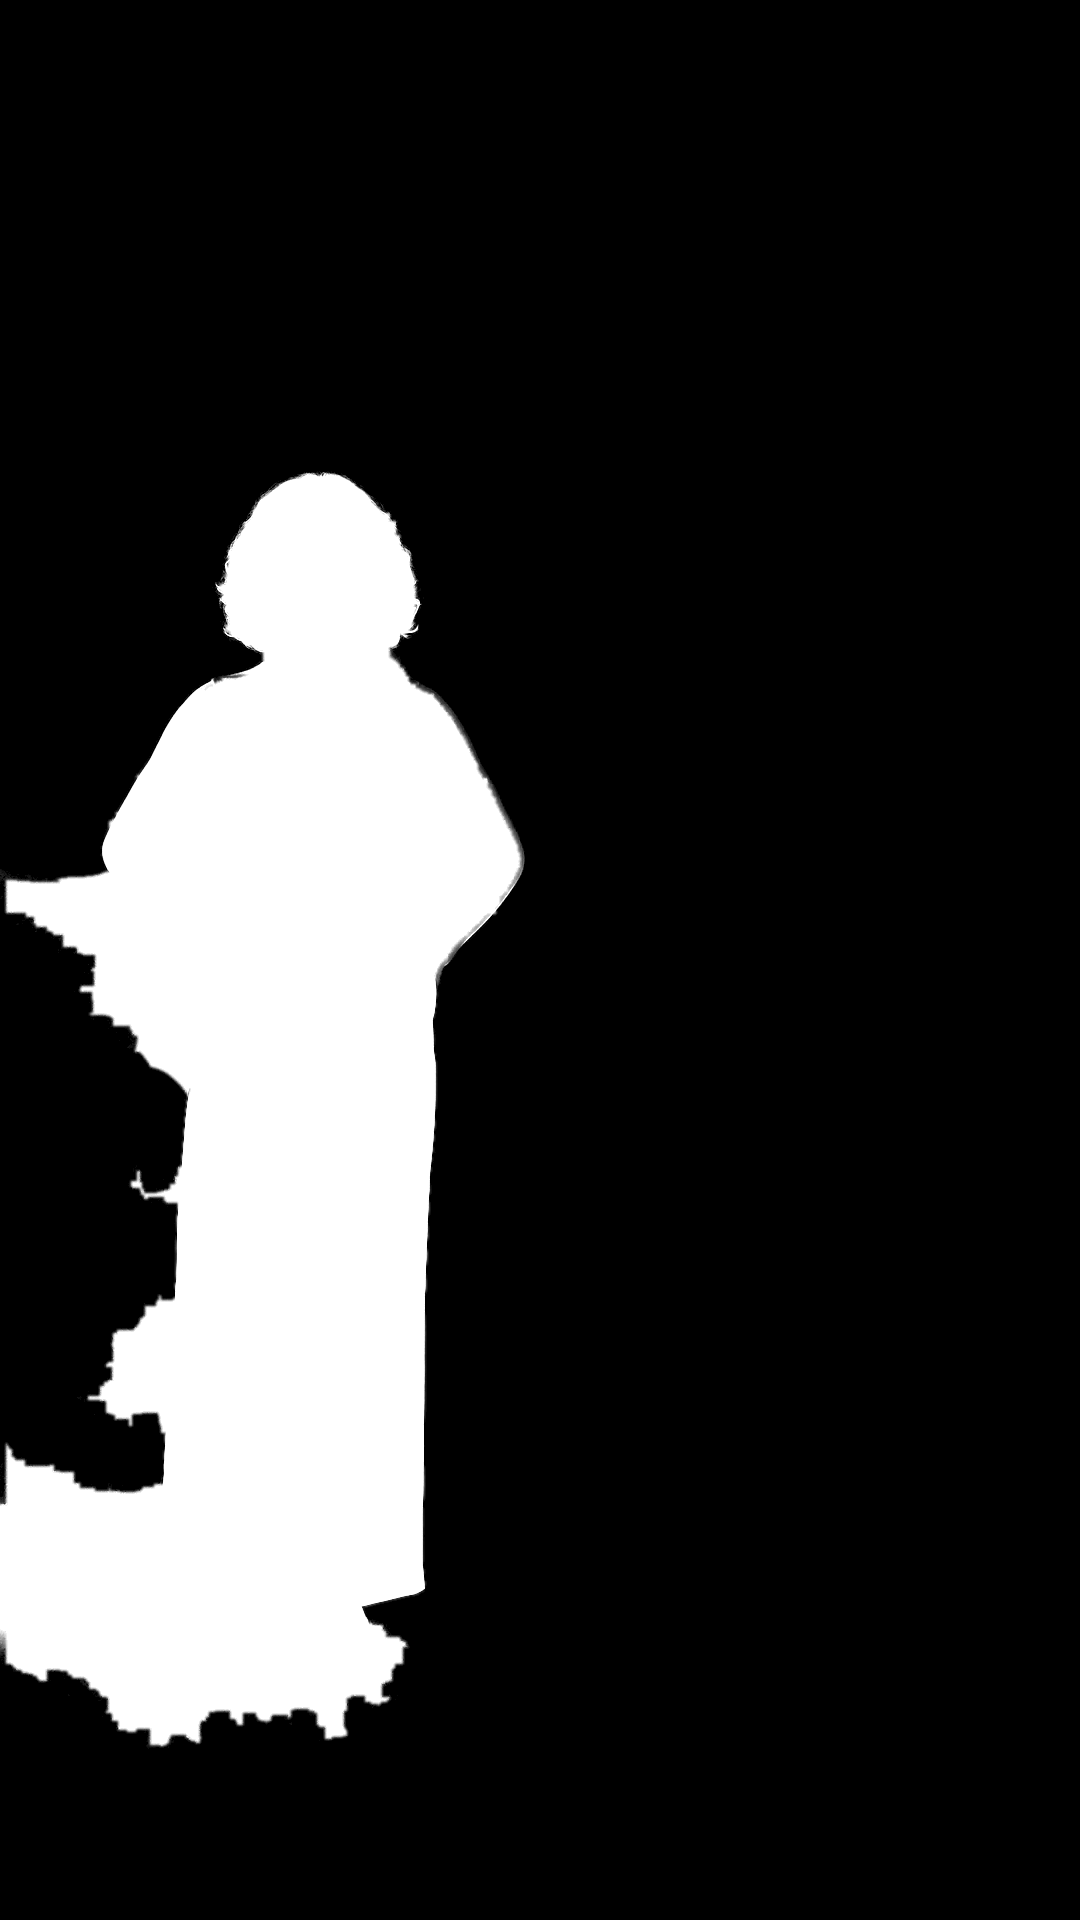
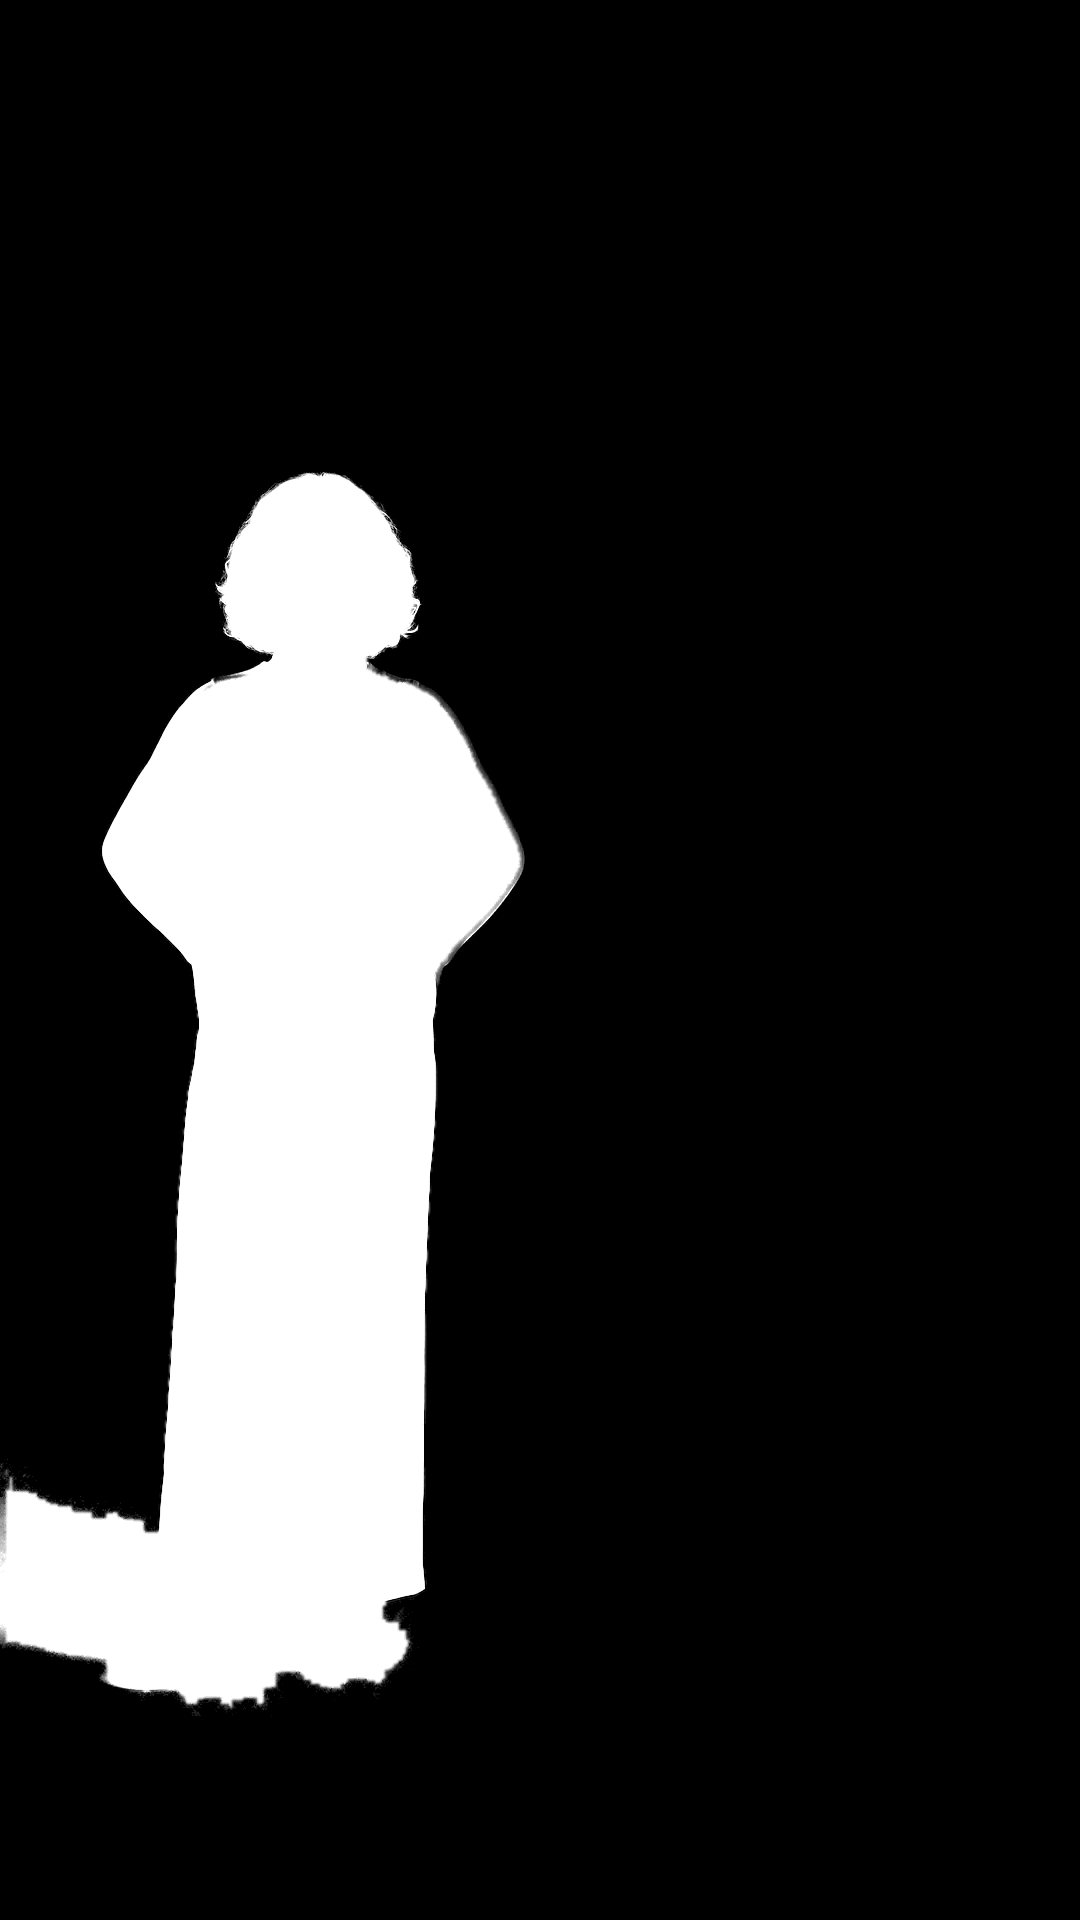
Make the train finite; keep wall shadow and pale fabric apart in the matte
The strip ran unbounded, so a garment sat behind the model at frame 1 and the
sequence repeated. It is now eight garments, one per cut, played once: nothing
behind her at the start, and the train empties from the right as it runs out.
The reference does the same - roughly ten pieces, with its last shot nearly bare
backdrop.

On the matte, three faults in sequence.

A wall shadow was being taken for subject: in shot 5, pixels reading channel
ratios of 0.95-1.07 with a spread of 0.01-0.04 are backdrop under a soft
lighting modulation, and the strip must pass in front of them. A ratio test
rejects them, with margins checked against every real garment (black reads
ratio 0.19, beige spread 0.19, the cream turtleneck mean 1.11).

That test then punched a hole through shot 6's cream trousers and hands, because
deep inside the figure the backdrop estimate has no backdrop left to average.
It collapses, and its ratios become meaningless - measured spread 14.0 and gain
221 where sane values are below 0.1. Gating the test on support density fixed
shot 6 but restored shot 5's shadow, since a shadow is itself classed subject
and the margin strips away its own surroundings.

The fix belonged in the estimate, not the test. It now blends a tight 20px
radius, accurate at the silhouette, towards a wide 220px one as support falls
away, so it is defined everywhere. Both shots pass together: shot 5 rejects the
shadow, shot 6 keeps its trousers, and the others are unchanged.
[…]

diff --git a/reel/matte.py b/reel/matte.py
@@ -22,6 +22,10 @@ from scipy import ndimage
 MAX_HOLE_FRAC = 0.0008          # holes larger than this fraction stay open
 SUBJECT_MARGIN = 25          # clearance kept around the subject when
                              # estimating the backdrop; see model_matte
+BACKDROP_SPREAD = 0.06       # channel-ratio spread below which a pixel is
+BACKDROP_GAIN = 0.08         # backdrop lit differently, not an object
+COARSE_SIGMA = 220.0         # wide fallback radius for the backdrop estimate
+SUPPORT_FULL = 0.25          # support at which the tight estimate is trusted alone
 BG_SIGMA = 20.0                 # radius of the backdrop estimate; 80 bled the
                                 # cyc curve into the matte and reported the
                                 # whole floor as subject
@@ -48,16 +52,36 @@ def guided_filter(guide, p, r=8, eps=1e-4):
     return ndimage.uniform_filter(a, r) * guide + ndimage.uniform_filter(b, r)
 
 
-def smooth_background(img, bgmask, sigma=None):
+def smooth_background(img, bgmask, sigma=None, with_support=False):
     """Gaussian-weighted average over the pixels currently classed as backdrop."""
     if sigma is None:
         sigma = BG_SIGMA          # read at call time so callers can tune it
     m = bgmask.astype(np.float64)
-    den = np.maximum(ndimage.gaussian_filter(m, sigma), 1e-6)
+    support = ndimage.gaussian_filter(m, sigma)
+    den = np.maximum(support, 1e-6)
     out = np.empty_like(img)
     for c in range(3):
         out[:, :, c] = ndimage.gaussian_filter(img[:, :, c] * m, sigma) / den
-    return out
+    return (out, support) if with_support else out
+
+
+def two_scale_background(img, bgmask, fine=None, coarse=None):
+    """
+    Backdrop estimate that stays valid everywhere in the frame.
+
+    A single tight radius is accurate beside the subject but collapses deep
+    inside it, where there is no backdrop left to average - and a collapsed
+    estimate corrupts both the residual and the channel ratios exactly where
+    pale garments need judging. So the tight estimate is blended towards a wide
+    one as its support falls away: local accuracy at the silhouette, a defined
+    value everywhere else.
+    """
+    fine = BG_SIGMA if fine is None else fine
+    coarse = COARSE_SIGMA if coarse is None else coarse
+    near, support = smooth_background(img, bgmask, sigma=fine, with_support=True)
+    far = smooth_background(img, bgmask, sigma=coarse)
+    wgt = np.clip(support / SUPPORT_FULL, 0.0, 1.0)[:, :, None]
+    return near * wgt + far * (1.0 - wgt)
 
 
 def model_matte(img, iters=6, feather=0.0, soft=(25.0, 150.0)):
@@ -86,11 +110,11 @@ def model_matte(img, iters=6, feather=0.0, soft=(25.0, 150.0)):
         # edges. With the margin the estimate is flat (208 across the whole row)
         # and the edge lands within 2px of the truth.
         if first:
-            return smooth_background(img, mask)
+            return two_scale_background(img, mask)
         safe = ~ndimage.binary_dilation(~mask, np.ones((SUBJECT_MARGIN, SUBJECT_MARGIN)))
         if safe.sum() < 0.10 * h * w:
             safe = mask
-        return smooth_background(img, safe)
+        return two_scale_background(img, safe)
 
     bg = np.ones((h, w), bool)
     for i in range(iters):
@@ -106,6 +130,28 @@ def model_matte(img, iters=6, feather=0.0, soft=(25.0, 150.0)):
 
     surf = estimate(bg)
     resid = np.abs(img - surf).sum(2)
+
+    # Reject backdrop that is merely lit slightly differently. A pixel whose
+    # three channels are all scaled by nearly the same mild factor is the
+    # backdrop under a soft luminance modulation - a wall shadow or a lighting
+    # ripple - not an object, and the strip must pass in front of it. Without
+    # this, shot 5's wall shadow (ratios 0.95-1.07, spread 0.01-0.04, residual
+    # 20-35 against a threshold of 21) is swallowed into the silhouette.
+    #
+    # The margins are set against the real garments, which all clear them:
+    # black reads ratio 0.19, beige spread 0.19, the cream turtleneck mean 1.11.
+    # The test is only meaningful where the estimate has real backdrop to
+    # average. Deep inside the figure the masked blur has no support and its
+    # ratios are meaningless - applied there, it punched a hole through the
+    # pale cream trousers and hands of shot 6. Gating on support density keeps
+    # the test at the periphery, where a wall shadow lives, and away from the
+    # interior, where it can only do damage.
+    ratio = img / np.maximum(surf, 1.0)
+    spread = ratio.max(2) - ratio.min(2)
+    backdrop_like = ((spread < BACKDROP_SPREAD)
+                     & (np.abs(ratio.mean(2) - 1) < BACKDROP_GAIN))
+    bg = bg | backdrop_like
+    resid = np.where(backdrop_like, 0.0, resid)
 
     # the backdrop is the part connected to the frame edge
     lab, _ = ndimage.label(bg)

diff --git a/reel/build_reel.py b/reel/build_reel.py
@@ -49,6 +49,9 @@ SHOT_COLOURS = ['beige', 'beige', 'black', 'brown', 'brown',
                 'white', 'beige', 'black', 'white']
 PALETTE = ['beige', 'black', 'brown', 'white']
 
+# One garment per cut, eight cuts. The train plays the sequence once and stops.
+N_GARMENTS = len(CUTS)
+
 
 def colour_for(k):
     """Garment k arrives on the cut into shot k+2, so it wears that shot's colour."""
@@ -84,12 +87,20 @@ def load_garments(scale, soften=0.0, products='assets/products'):
 
 
 def garment_positions(frame, pitch):
-    """(index, centre_x) for every garment overlapping the frame."""
-    # garment k is centred on the model at cut frame CUTS[0] + k*CUT_PERIOD
+    """
+    (index, centre_x) for every garment overlapping the frame.
+
+    The train is finite: one garment per cut and no more. k runs 0..7, so
+    nothing is sitting behind the model at frame 1, the sequence plays once,
+    and the strip empties from the right as it runs out. The reference film
+    does the same - its train is roughly ten pieces and the last shot is nearly
+    bare backdrop, which is what gives the clip its ending beat.
+    """
     t = (frame - CUTS[0]) / CUT_PERIOD
     lo = int(np.floor((0 - MODEL_CX) / pitch + t)) - 1
     hi = int(np.ceil((W - MODEL_CX) / pitch + t)) + 1
-    return [(k, MODEL_CX + pitch * (k - t)) for k in range(lo, hi + 1)]
+    return [(k, MODEL_CX + pitch * (k - t))
+            for k in range(max(lo, 0), min(hi, N_GARMENTS - 1) + 1)]
 
 
 def build_strip(frame, garments, pitch, band_cy):
@@ -171,7 +182,8 @@ def main():
     speed = pitch / CUT_PERIOD                       # px per frame
     print("garment %dx%d px  pitch %.0f px  speed %.1f px/frame = %.0f px/s (%.1f%% width/s)"
           % (gw, garments[PALETTE[0]].size[1], pitch, speed, speed * FPS, speed * FPS / W * 100))
-    print("strip order at the cuts: " + " -> ".join(colour_for(k) for k in range(-1, 8)))
+    print("strip: %d garments, arriving in order " % N_GARMENTS
+          + " -> ".join(colour_for(k) for k in range(N_GARMENTS)))
 
     alphas = [np.asarray(Image.open(os.path.join(args.mattes, 'shot%d_alpha.png' % i))
                          .convert('L')).astype(np.float32)[:, :, None] / 255.0
